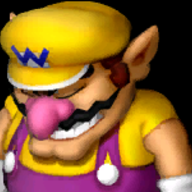
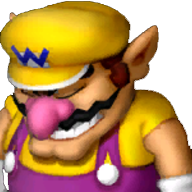
changed images and edited js
the images are now with an invisible background

Changed region(s): [[0.0, 0.0, 1.0, 0.7812], [0.0, 0.2188, 0.0938, 0.5938], [0.0, 0.875, 0.0625, 1.0]]

diff --git a/PHP/EXTRA/wario.js b/PHP/EXTRA/wario.js
@@ -1,12 +1,13 @@
 
    let selectedimage = document.querySelector(".winOrLoseImage")
     selectedimage.innerHTML = "<img style='width: 300px' src='../../IMG/warioGame/Wario.png'>"; //the win/lose image
+
    let coin = "<img style='width: 50px' src='../../IMG/warioGame/Coin.png'>" //image
    let Lose = "<img style='width: 300px' src='../../IMG/warioGame/Wario-Wins.png'>"; //this was the losing image now i remember
    let Win = "<img style='width: 300px' src='../../IMG/warioGame/Wario-loses.png'>"; //yes this was the win image
 
-   let LoseSound = "<source src='../../SOUNDFILES/i-win.wav'>"; //sound
-   let WinSound = "<source src='../../SOUNDFILES/rotten-day.wav'>"; //sound
+   let LoseSound = new Audio('../../SOUNDFILES/i-win.wav'); //sound
+   let WinSound = new Audio('../../SOUNDFILES/rotten-day.wav'); //sound
 
    let restartbutton = document.querySelector(".restartButton"); //this restarts the game
 
@@ -126,7 +127,7 @@ if (aantal <= 0) {
         }
     }
     document.querySelector(".coins").innerHTML = coins
-    /*LoseSound;*/
+    LoseSound.play();
     selectedimage.innerHTML = Lose;
     winorlose.innerHTML = "Wario won better luck next time! <br> Press the red restart button to try again!";
     break;
